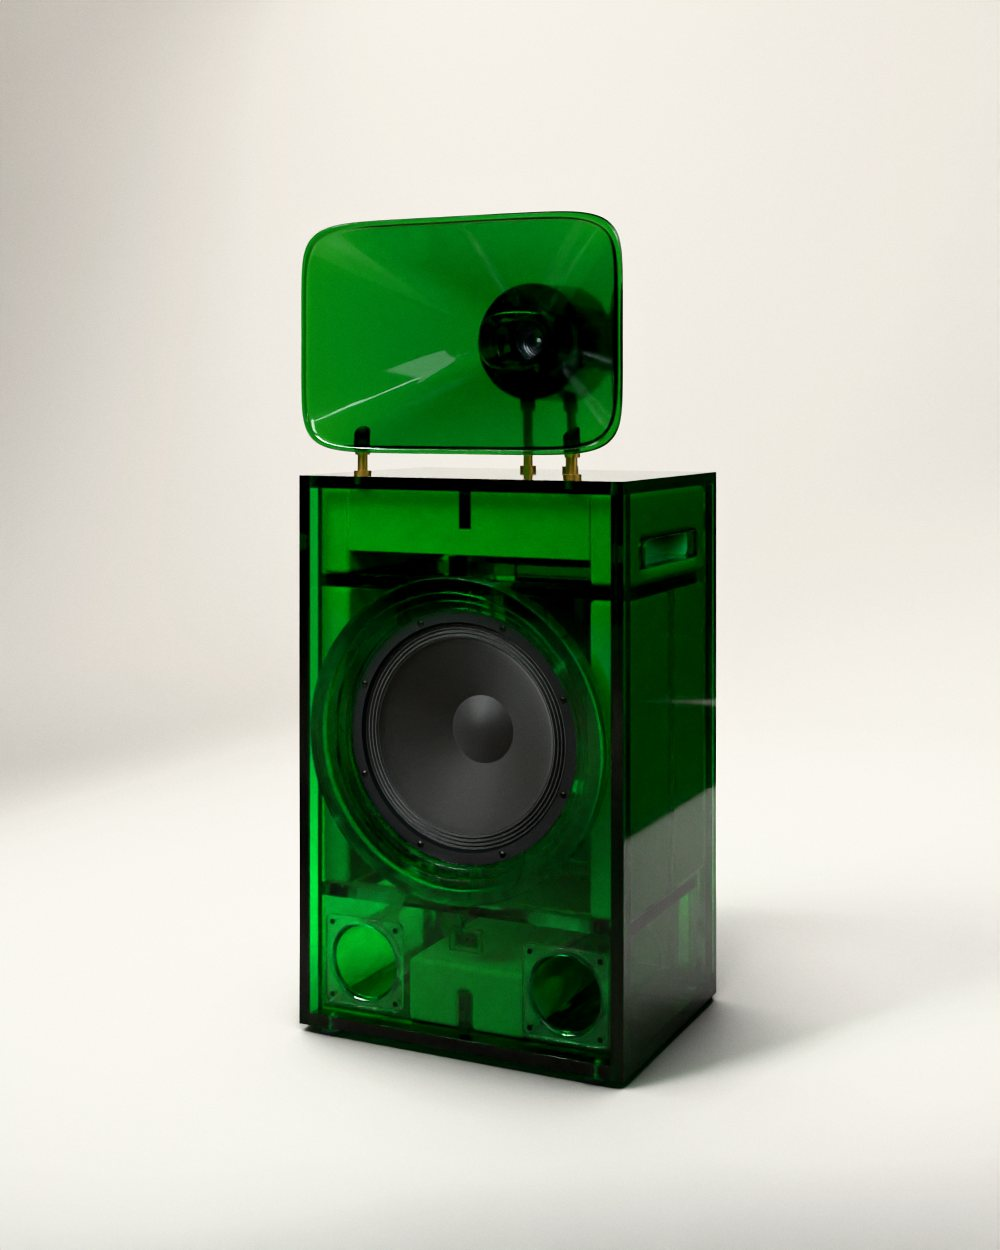
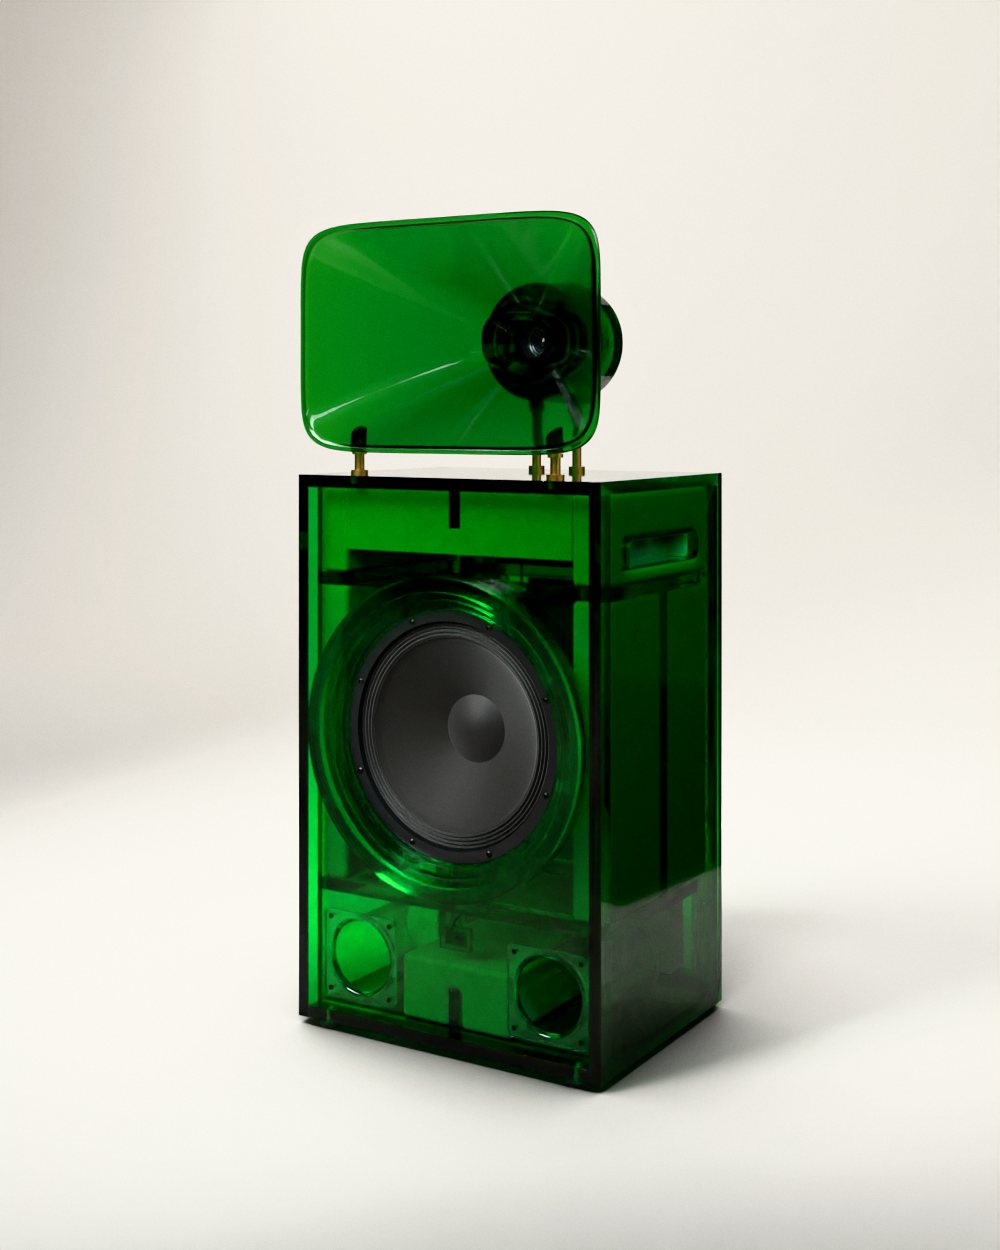
Stage tallr6 front: Poison; not republished
Claude-Session: https://claude.ai/code/session_01BAaPTm6ZnW6Wr5zqpr5BWJ

Changed region(s): [[0.279, 0.156, 0.744, 0.8736], [0.434, 0.5616, 0.465, 0.5928], [0.372, 0.156, 0.403, 0.1872]]

diff --git a/spinoffs/barkhorn/brandbook/make_book.py b/spinoffs/barkhorn/brandbook/make_book.py
@@ -37,7 +37,7 @@ PINNED = {'room.jpg': ('754e16a9852f364fb2ebe8eb752c10ab6bdc0e23', 'renders/2026
           'honest-a-ice.jpg': ('f7f03850edb54dfc9ccbe0cc2655b194cafc1232', 'renders/2026-11-03/barkhorn/base-question/gate2/A-ice-polished-honest.png'),
           'honest-front-ember.jpg': ('4fcc28f879d93486c22844a2630b17df1b2e6013', 'renders/2026-11-04/barkhorn/rollout/A-polished-tallr6/site-front-off-tall-ember.png'),
           'honest-front-dust.jpg': ('5c8371479a9a2fd63a497c7fc7d4ddb7d6e18ac2', 'renders/2026-11-04/barkhorn/rollout/A-polished-tallr6/site-front-off-tall-dust.png'),
-          'honest-front-poison.jpg': ('766f299df9326d6b77b3ab9a96d782aeb320329c', 'renders/2026-11-04/barkhorn/rollout/A-polished-tallr3/site-front-off-tall-poison.png'),
+          'honest-front-poison.jpg': ('e7ca2e7154d2fa834051ccc056f8202af82e5211', 'renders/2026-11-04/barkhorn/rollout/A-polished-tallr6/site-front-off-tall-poison.png'),
           'honest-front-ice.jpg': ('48dcfd298e39c6e36477a85a9d42e2ecce747968', 'renders/2026-11-04/barkhorn/rollout/A-polished-tallr6/site-front-off-tall-ice.png'),
           'honest-front-haze.jpg': ('94b4534a7684c55e0b3420728f09d12dc6c283f3', 'renders/2026-11-04/barkhorn/rollout/A-polished-tallr3/site-front-off-tall-haze.png'),
           'honest-front-fog.jpg': ('4e89a8340d5de6efbe02286b639d081432db84f1', 'renders/2026-11-04/barkhorn/rollout/A-polished-tallr6/site-front-off-tall-fog.png'),
